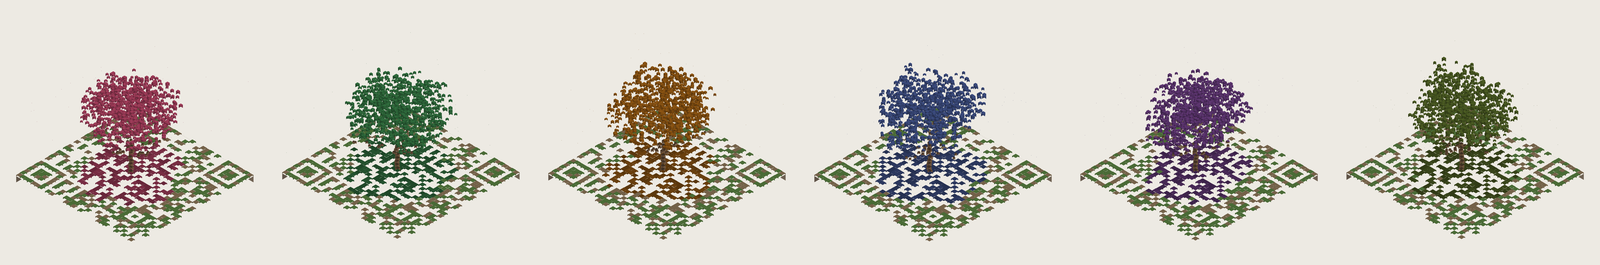
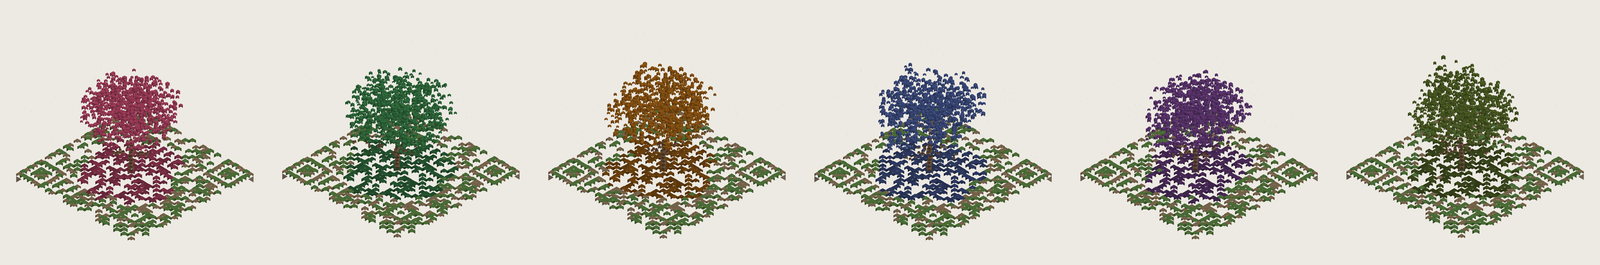
Thicken ground blocks so the plot reads as terrain
At 0.26-0.40 of a module the raised blocks still looked like flat plates
scattered on the slab, which is the exact failure that raising them off the
slab was meant to fix. They are now 0.52-0.82, enough side face to register as
depth from the isometric view while changing nothing overhead.

Also widen the gum's trunk from 0.42 to 0.56. Its near-white bark is the whole
point of the species and at 0.42 it was a hairline that barely registered.

Both builds re-verified: 144/144 ZBar clean, 144/144 exact matrix
reconstruction from rendered pixels, 432/432 through the camera simulation.

Changed region(s): [[0.0, 0.2415, 1.0, 0.9057]]

diff --git a/canvas.html b/canvas.html
@@ -1236,7 +1236,10 @@ footer { display: flex; flex-wrap: wrap; align-items: center; gap: 14px; }
           // brown soil where the crown does not reach, grass elsewhere
           mat = nz > 0.45 ? pal.mat.grass : pal.mat.soil;
         }
-        place(this.out, mx, my, SLAB_TOP, 1, 0.26 + nz * 0.14, mat, 'ground', rnd);
+        // Chunky enough to read as terrain. At 0.26 the blocks look like flat
+        // plates scattered on the slab, which is the very thing raising them
+        // was meant to fix.
+        place(this.out, mx, my, SLAB_TOP, 1, 0.52 + nz * 0.30, mat, 'ground', rnd);
       }
     }
   };
@@ -1296,7 +1299,7 @@ footer { display: flex; flex-wrap: wrap; align-items: center; gap: 14px; }
   function plantGum(c, n, cx, cy) {
     var rnd = c.rnd;
     var trunkH = n * 0.42;
-    c.trunk(cx, cy, 0, trunkH, 0.42);
+    c.trunk(cx, cy, 0, trunkH, 0.56);   // wide enough for the pale bark to read
 
     var clumps = 8 + Math.floor(rnd() * 3);
     for (var i = 0; i < clumps; i++) {

diff --git a/index.html b/index.html
@@ -1235,7 +1235,10 @@ footer { display: flex; flex-wrap: wrap; align-items: center; gap: 14px; }
           // brown soil where the crown does not reach, grass elsewhere
           mat = nz > 0.45 ? pal.mat.grass : pal.mat.soil;
         }
-        place(this.out, mx, my, SLAB_TOP, 1, 0.26 + nz * 0.14, mat, 'ground', rnd);
+        // Chunky enough to read as terrain. At 0.26 the blocks look like flat
+        // plates scattered on the slab, which is the very thing raising them
+        // was meant to fix.
+        place(this.out, mx, my, SLAB_TOP, 1, 0.52 + nz * 0.30, mat, 'ground', rnd);
       }
     }
   };
@@ -1295,7 +1298,7 @@ footer { display: flex; flex-wrap: wrap; align-items: center; gap: 14px; }
   function plantGum(c, n, cx, cy) {
     var rnd = c.rnd;
     var trunkH = n * 0.42;
-    c.trunk(cx, cy, 0, trunkH, 0.42);
+    c.trunk(cx, cy, 0, trunkH, 0.56);   // wide enough for the pale bark to read
 
     var clumps = 8 + Math.floor(rnd() * 3);
     for (var i = 0; i < clumps; i++) {

diff --git a/src/scene.js b/src/scene.js
@@ -253,7 +253,10 @@
           // brown soil where the crown does not reach, grass elsewhere
           mat = nz > 0.45 ? pal.mat.grass : pal.mat.soil;
         }
-        place(this.out, mx, my, SLAB_TOP, 1, 0.26 + nz * 0.14, mat, 'ground', rnd);
+        // Chunky enough to read as terrain. At 0.26 the blocks look like flat
+        // plates scattered on the slab, which is the very thing raising them
+        // was meant to fix.
+        place(this.out, mx, my, SLAB_TOP, 1, 0.52 + nz * 0.30, mat, 'ground', rnd);
       }
     }
   };
@@ -313,7 +316,7 @@
   function plantGum(c, n, cx, cy) {
     var rnd = c.rnd;
     var trunkH = n * 0.42;
-    c.trunk(cx, cy, 0, trunkH, 0.42);
+    c.trunk(cx, cy, 0, trunkH, 0.56);   // wide enough for the pale bark to read
 
     var clumps = 8 + Math.floor(rnd() * 3);
     for (var i = 0; i < clumps; i++) {

diff --git a/README.md b/README.md
@@ -64,6 +64,11 @@ the plot read as ink printed on a floor. Raised blocks make it read as terrain
 the tree is growing out of. Grass and soil where the crown does not reach,
 fallen blossom where it does.
 
+Height matters more than it sounds. At around a quarter of a module the blocks
+still read as flat plates scattered on the slab — the exact failure raising
+them was meant to fix. They are 0.52–0.82 of a module, which is enough side
+face to register as depth from the isometric view and changes nothing overhead.
+
 **Soil sits near 5:1, not the near-black 10:1 you first reach for.** The
 ground layer alone reproduces the matrix, so the instinct is to make it as
 dark as possible — but 5:1 already clears the floor with two-thirds of the
